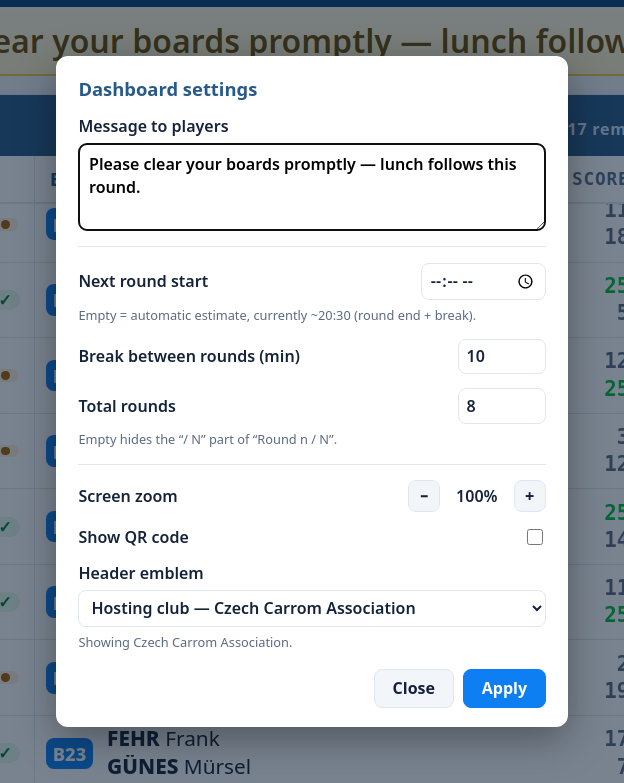
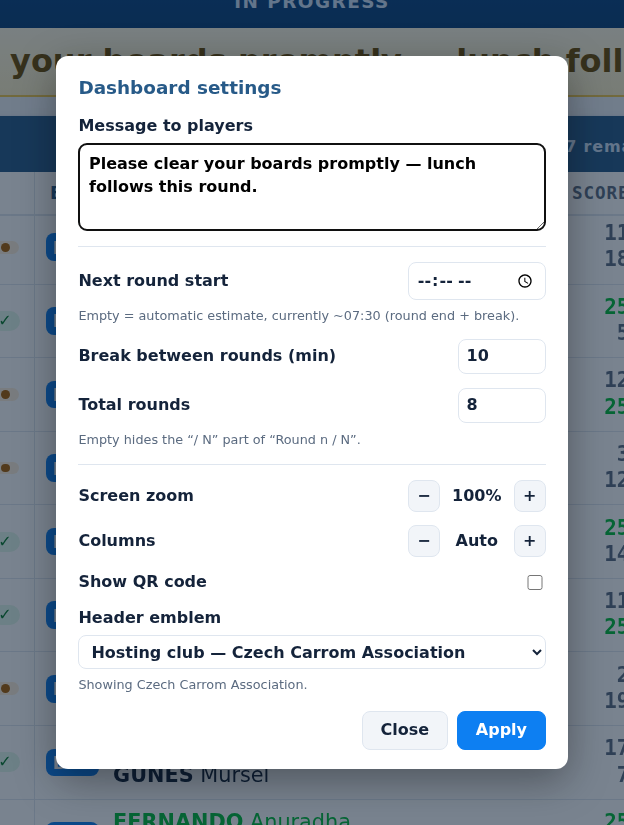
feat: add a Columns control to the settings panel
Mirrors the Screen zoom row: -/+ buttons step the same COLS_OVERRIDE the
[/] keys drive, and clicking the Auto/number readout resets it, so an
operator without a keyboard handy (the detached settings window) can reach
the same control. Regenerated screenshots/05-settings.png to show it.

Claude-Session: https://claude.ai/code/session_011VXVjgE5w85UGwEAUQa8XK

diff --git a/dashboard.html b/dashboard.html
@@ -486,6 +486,7 @@ body>.sset{width:auto;border-radius:0}
 .sset .zrow{display:flex;align-items:center;gap:.5em}
 .sset .zrow output{min-width:3.6em;text-align:center;font-variant-numeric:tabular-nums}
 .sset .zrow button{width:2em;height:2em;padding:0;font-weight:800}
+.sset #setColsPct{cursor:pointer}
 .sset hr{border:0;border-top:1px solid var(--s-line);margin:.1em 0;width:100%}
 .sset .row{display:flex;align-items:center;gap:.6em;margin-top:.2em}
 .sset .row .note{margin-right:auto;font-size:.85em;font-weight:700;color:#00bd39;opacity:0;transition:opacity .12s linear}
@@ -567,6 +568,13 @@ body>.sset{width:auto;border-radius:0}
         <button type="button" id="setZoomOut" title="Zoom out">−</button>
         <output id="setZoomPct">100%</output>
         <button type="button" id="setZoomIn" title="Zoom in">+</button>
+      </span>
+    </label>
+    <label>Columns
+      <span class="zrow">
+        <button type="button" id="setColsOut" title="Fewer columns">−</button>
+        <output id="setColsPct" title="Click to reset to automatic">Auto</output>
+        <button type="button" id="setColsIn" title="More columns">+</button>
       </span>
     </label>
     <label>Show QR code <input type="checkbox" id="setQr"></label>
@@ -4029,12 +4037,16 @@ function mountSettings(doc, root){
   // operator can watch the big screen while nudging them. Text fields wait for Apply.
   $("setZoomOut").addEventListener("click", () => setZoom(ZOOM - ZOOM_STEP));
   $("setZoomIn").addEventListener("click", () => setZoom(ZOOM + ZOOM_STEP));
+  $("setColsOut").addEventListener("click", () => adjustCols(-1));
+  $("setColsIn").addEventListener("click", () => adjustCols(1));
+  $("setColsPct").addEventListener("click", () => setColsOverride(null));
   $("setQr").addEventListener("change", (e) => setQRVisible(e.target.checked));
   $("setEmblem").addEventListener("change", (e) => { setEmblemMode(e.target.value); syncEmblemUI(); });
   syncEmblemUI();
   $("setApply").addEventListener("click", applySettings);
   $("setClose").addEventListener("click", closeSettings);
   syncZoomReadout();
+  syncColsReadout();
   $("setMsg").focus();
 }
 
@@ -4042,6 +4054,12 @@ function syncZoomReadout(){
   const doc = settingsHost();
   const out = doc && doc.getElementById("setZoomPct");
   if (out) out.textContent = Math.round(ZOOM * 100) + "%";
+}
+
+function syncColsReadout(){
+  const doc = settingsHost();
+  const out = doc && doc.getElementById("setColsPct");
+  if (out) out.textContent = COLS_OVERRIDE != null ? String(COLS_OVERRIDE) : "Auto";
 }
 
 // The QR auto-hides from round 3 on, so re-ticking the box after that has to force it
@@ -4225,6 +4243,7 @@ function setColsOverride(next){
     if (COLS_OVERRIDE == null) localStorage.removeItem(COLS_KEY);
     else localStorage.setItem(COLS_KEY, String(COLS_OVERRIDE));
   } catch (e) {}
+  syncColsReadout();   // the settings panel's own readout, when it's open
   // Column counts drive both grids' markup, not just their CSS widths, so re-render.
   if (everRendered && DATA){ renderMatches(); renderStandings(); layoutPanels(); }
 }

diff --git a/CLAUDE.md b/CLAUDE.md
@@ -144,11 +144,12 @@ already scored (so "Round ended" holds until new pairings are drawn).
   All three are tuned so the longest expected names fit unclipped at 4K — singles "WEERAWARNAKULA Haritha" (368px at
   the 1.35rem font cap), doubles "BANKOVIC Aleksandar/PAVLOVIC Aleksandar" (596px); longer names may ellipsize.
   Fonts rem-based (`html{font-size:20px}`) so browser zoom scales everything.
-  `[`/`]`/`\` let an operator step or reset a manual `COLS_OVERRIDE` (`solDash.cols`, 1–10) on top of this
-  auto-fit — `matchColumns`/`standingsCols` return it verbatim when set, falling back to the renamed
-  `autoMatchColumns`/`autoStandingsCols` otherwise. It has no effect on the finals panel (always one column) and,
-  like `ZOOM`, triggers `renderMatches`/`renderStandings`/`layoutPanels` on change since column count reshapes the
-  markup, not just CSS.
+  `[`/`]`/`\` (and the settings panel's own **Columns** −/Auto/+ row, `#setColsOut`/`#setColsPct`/`#setColsIn`, wired
+  straight to `adjustCols`/`setColsOverride`) let an operator step or reset a manual `COLS_OVERRIDE`
+  (`solDash.cols`, 1–10) on top of this auto-fit — `matchColumns`/`standingsCols` return it verbatim when set,
+  falling back to the renamed `autoMatchColumns`/`autoStandingsCols` otherwise. It has no effect on the finals
+  panel (always one column) and, like `ZOOM`, triggers `renderMatches`/`renderStandings`/`layoutPanels` and its
+  own readout sync (`syncColsReadout`, mirroring `syncZoomReadout`) on change.
 - **Header emblem:** `resolveEmblem()` resolves **both** clubs — `EMBLEM.host` (the "Hosted by"
   organiser) and `EMBLEM.owner` (the championship club, free from the tourney page's own `#emblem`, so still just
   **one** fetch, for the host). Fires after the first render and must never block or delay it. Cached per tournament
@@ -162,7 +163,7 @@ already scored (so "Round ended" holds until new pairings are drawn).
   single-emblem build has `{src,title,tried:true}`, and matching on URL alone made `resolveEmblem` skip forever and
   strand the header on the board icon. Any future change to the cached shape needs the same guard.
 - **Settings panel:** the **single** editor for every operator setting — message, next-round time,
-  break, total rounds, zoom, QR toggle, emblem toggle. Four ways in, all `openSettings()`: the logo (`#logoBtn`, gear badge on
+  break, total rounds, zoom, columns, QR toggle, emblem toggle. Four ways in, all `openSettings()`: the logo (`#logoBtn`, gear badge on
   hover), the Space key, the clock's next-round block, and the "Round n / N" subtitle. There are deliberately **no
   per-setting dialogs any more**; don't reintroduce one. It opens in a **detached `window.open`** so the operator can
   drag it off the projector and type unseen, falling back to `#settingsOverlay` when the popup is blocked — so every

diff --git a/README.md b/README.md
@@ -138,11 +138,12 @@ popup, the same panel falls back to an in-page dialog:
 | **Break between rounds** | Feeds that automatic estimate. |
 | **Total rounds** | The "/ N" in "Round n / N". Swiss events don't publish this. Empty hides it. |
 | **Screen zoom** | Same 5 % steps as the footer control below. |
+| **Columns** | Same override as the <kbd>[</kbd> / <kbd>]</kbd> keys below — click **Auto** to reset it. |
 | **Show QR code** | Hides the QR now, or forces it back after its round-3 auto-hide. |
 | **Header emblem** | Which club's emblem to show, or none — see below. |
 
-Text fields apply on **Apply**; zoom and the QR toggle take effect immediately, so you can nudge
-them while watching the big screen.
+Text fields apply on **Apply**; zoom, columns, and the QR toggle take effect immediately, so you
+can nudge them while watching the big screen.
 
 Three ways in, all opening the same panel: the **logo**, the <kbd>Space</kbd> key, or clicking the
 part of the header you want to change — the **next-round time** or the **"Round n / N"** subtitle.
